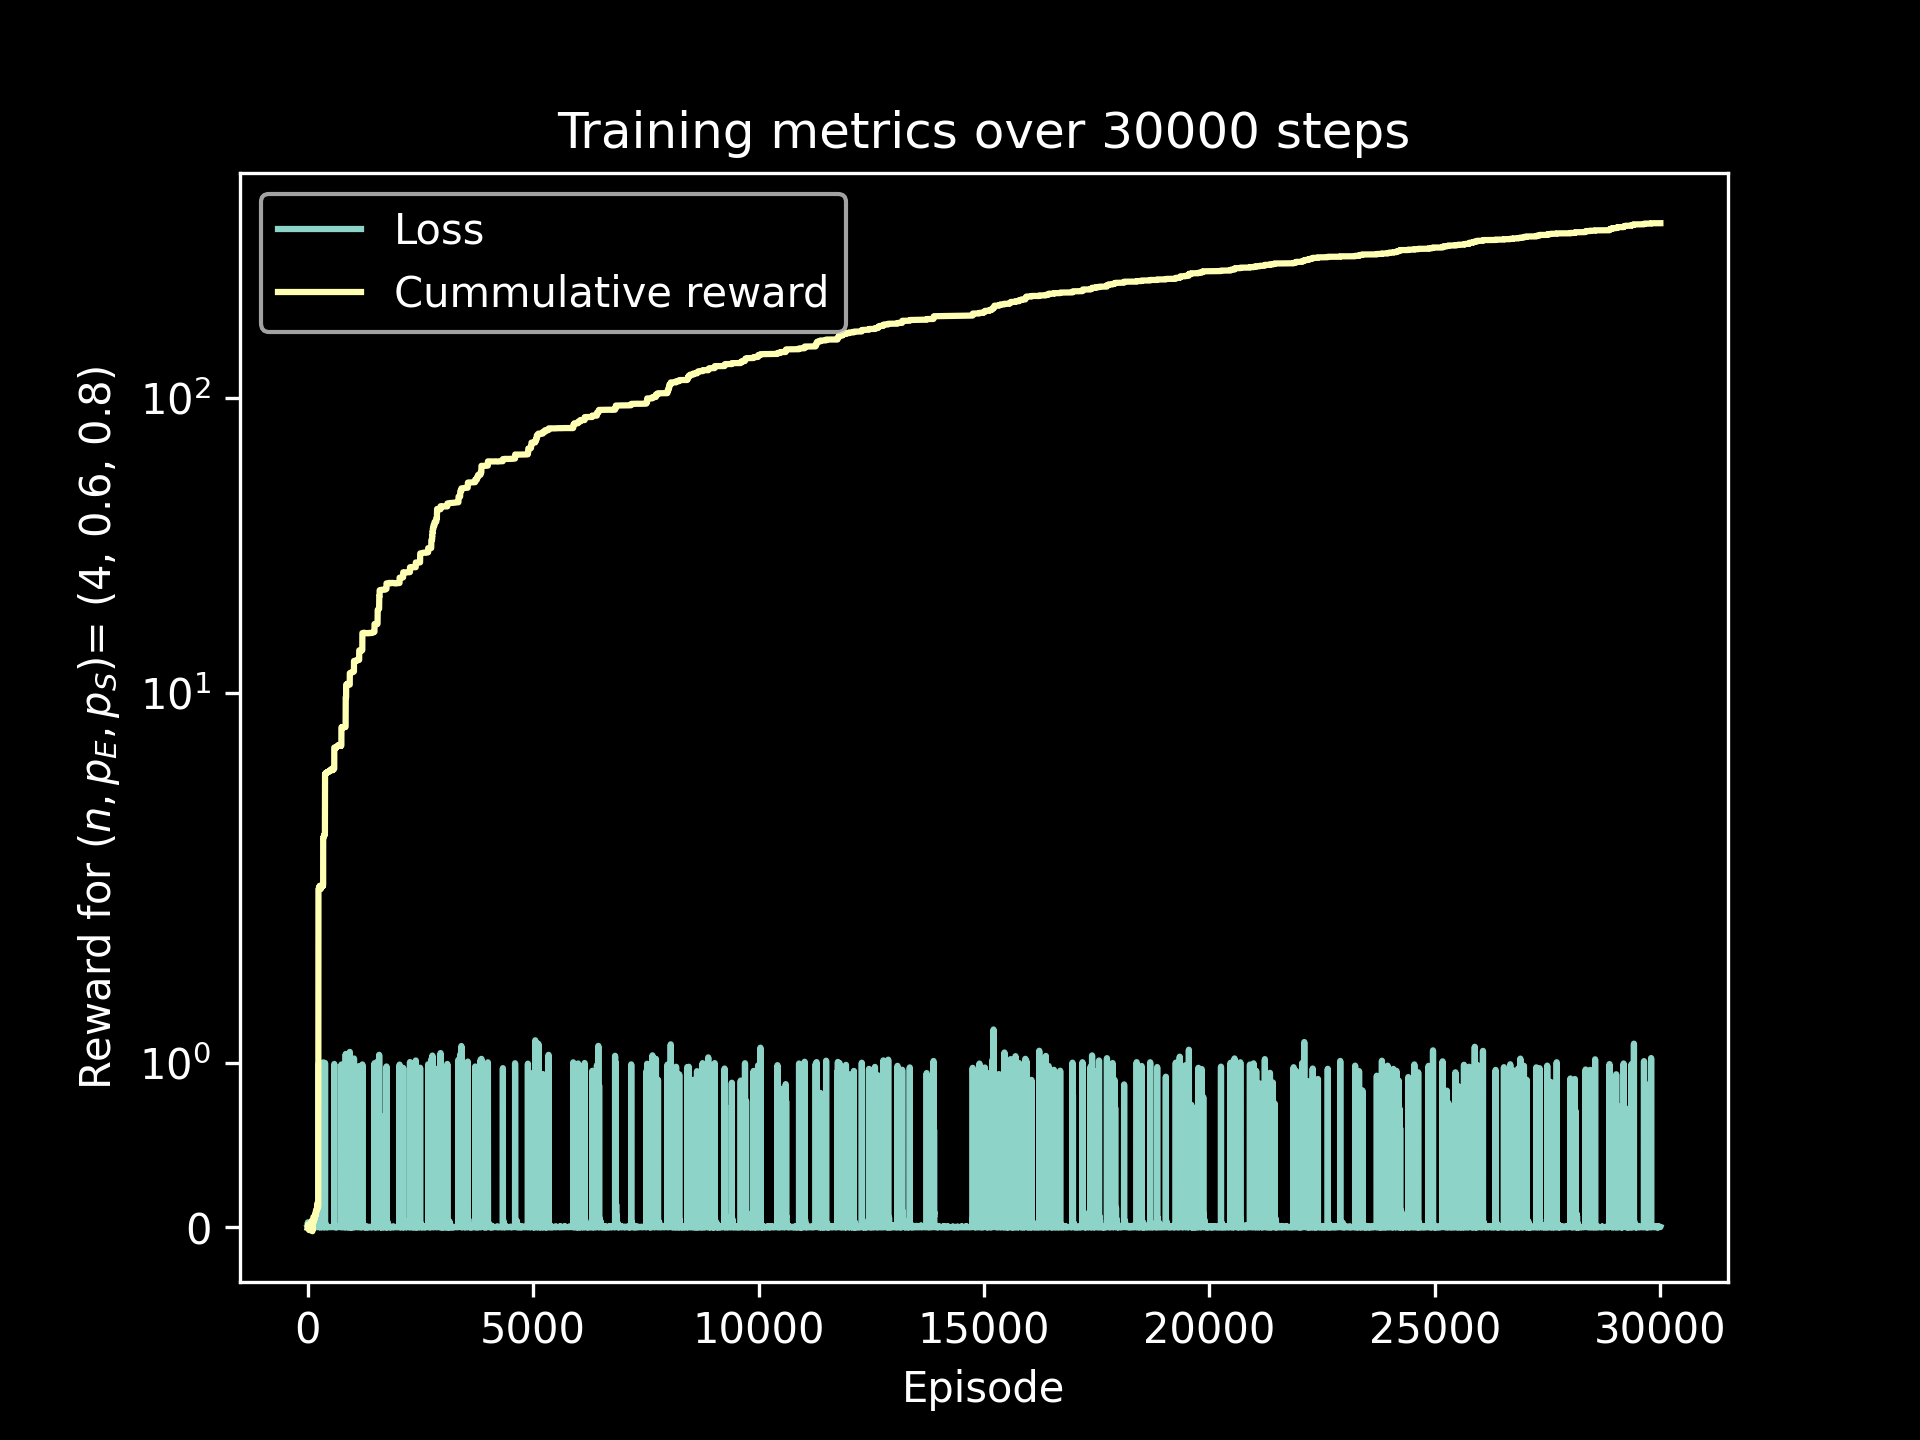
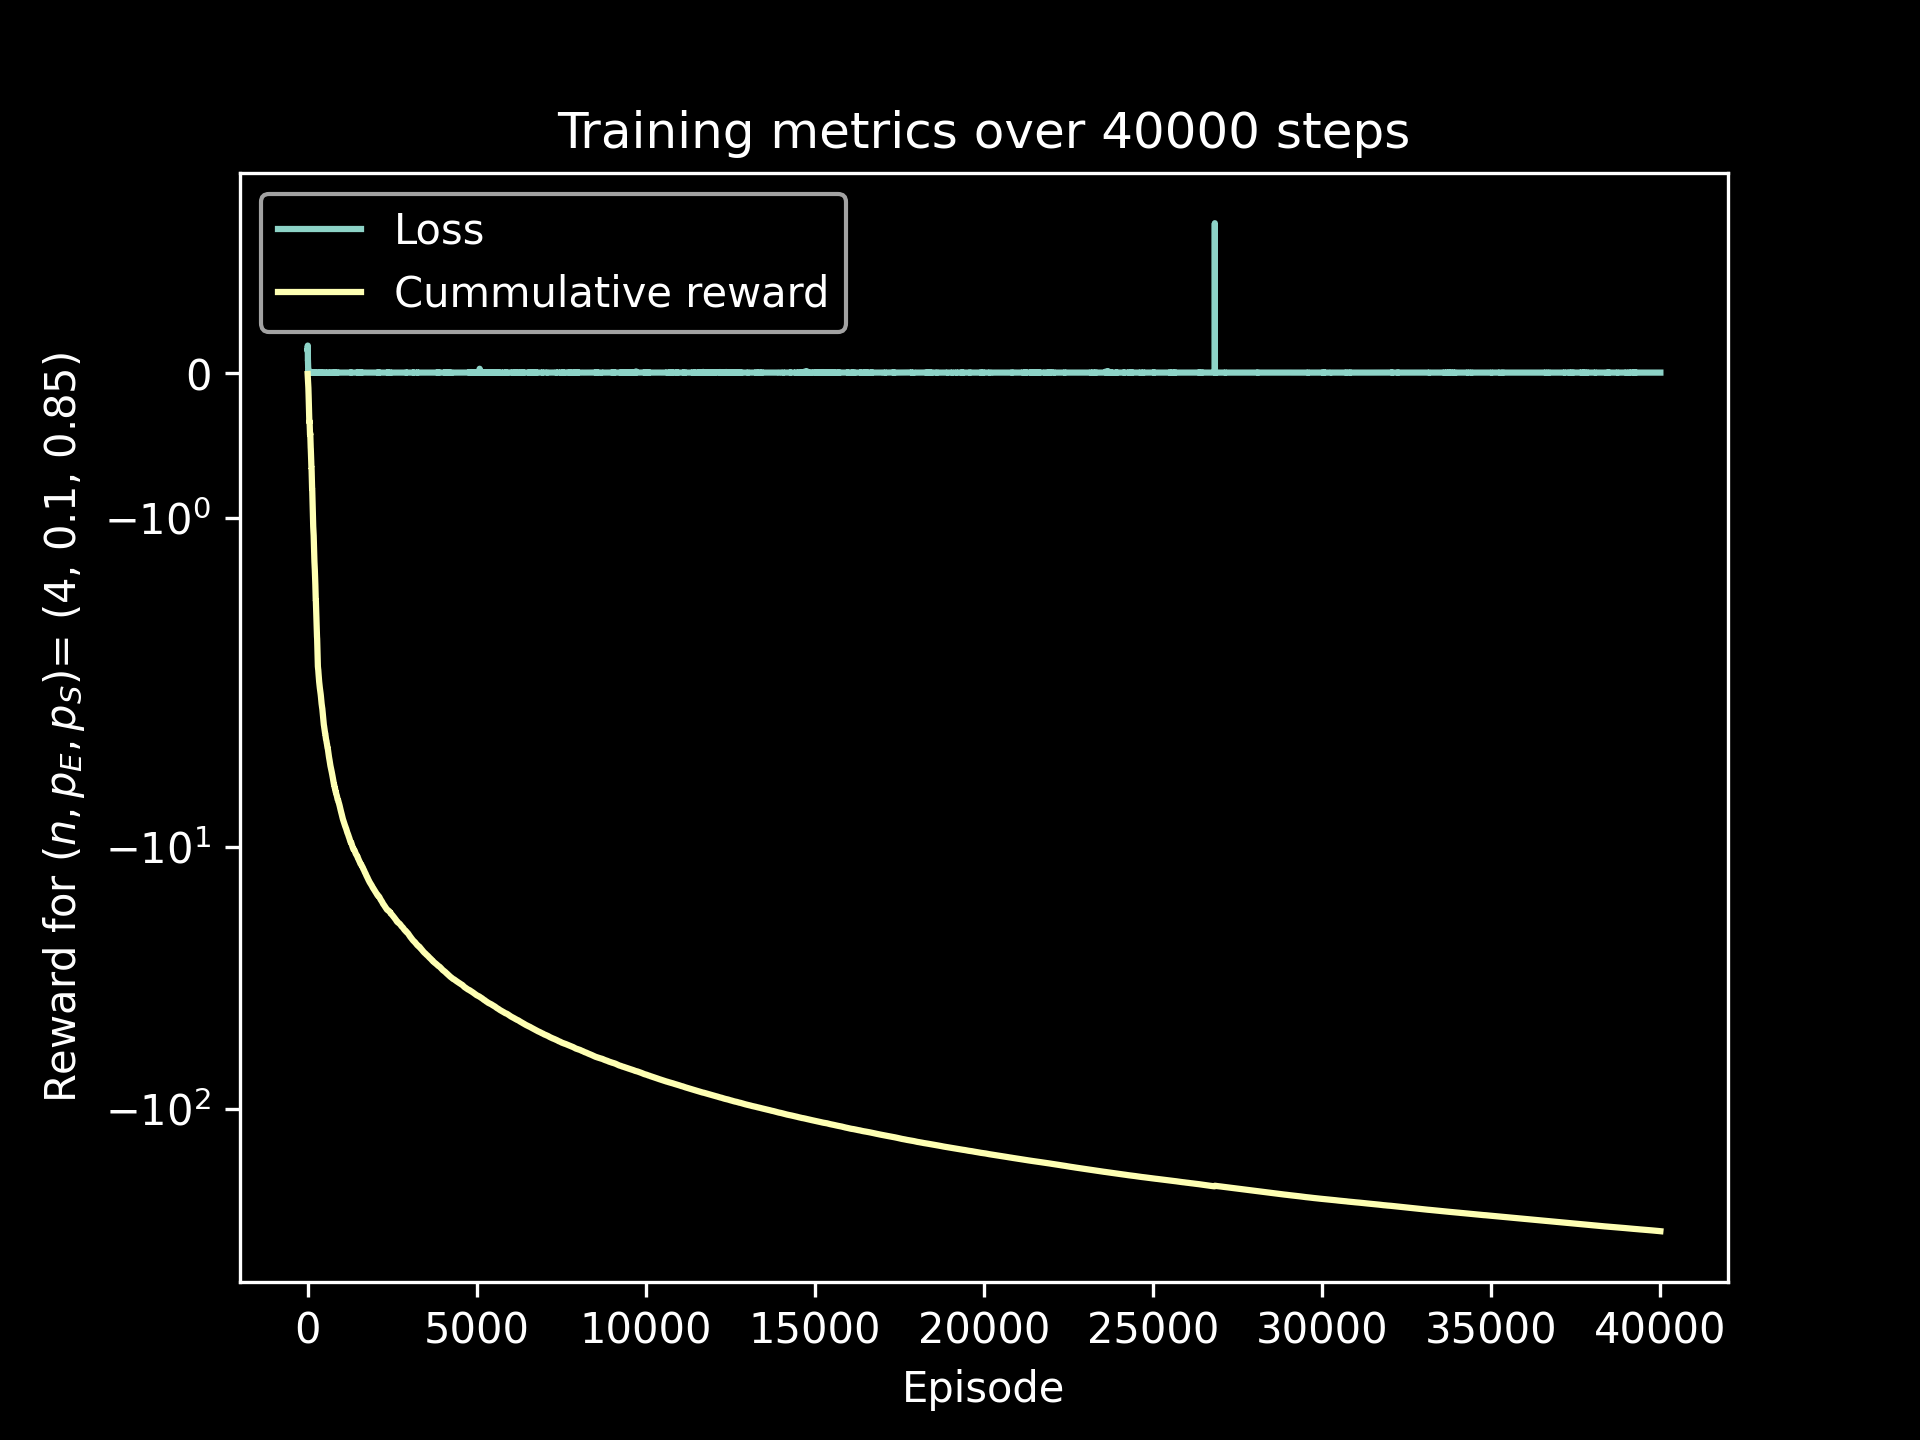
seperated heuristics

diff --git a/src/stats.py b/src/stats.py
@@ -1,6 +1,7 @@
 import matplotlib.pyplot as plt
 import statistics
 import numpy as np
+import seaborn as sns
 import matplotlib as mpl
 from tqdm import tqdm
 from matplotlib.pyplot import figure
@@ -104,6 +105,32 @@ def test_stats(agent,
   plt.ylabel(f'Link rate for $(n, p_E, p_S, τ)$= {n_test, p_entangle, p_swap, tau}')
   plt.legend()
   plt.savefig('assets/test_stats.png') if savefig else None
+  plt.show()
+
+   #--- Plot performance stats ---
+  means = [np.mean(lt), np.mean(ls), np.mean(lr)]
+  mean_errors = [np.mean(t_err), np.mean(s_err), np.mean(r_err)]
+
+  labels = ["Agent", "Swap ASAP", "Random"]
+  plt.figure(figsize=(8, 6))
+  plt.bar(
+      x=labels,
+      height=means,
+      yerr=mean_errors,
+      capsize=10,  # Cap width
+      color=(0, 0, 0, 0), # Transparent fill
+      edgecolor=".5",     # Gray outline
+      linewidth=2.5,      # Thick outline
+      error_kw={
+          "ecolor": ".5",      # Color of error bars
+          "elinewidth": 2.5,   # Width of error bar lines
+          "markeredgewidth": 2.5 # Thickness of the caps
+          })
+
+  plt.ylabel("Mean Performance")
+  plt.title("Performance by Strategy")
+  sns.despine()
+  plt.savefig('assets/test_comp.png') if savefig else None
   plt.show()
 
 

diff --git a/src/main.py b/src/main.py
@@ -13,28 +13,28 @@ np.set_printoptions(legacy='1.25')
 if __name__ == '__main__':
 
 	#Toggle if scaling performance is evaluated
-	GET_SCALING_STATS = 0
+	GET_SCALING_STATS = False
 
 
 	# Re-initialize the agent, now to be used as a zero-shot learner
 	agent = AgentGNN(n=4, 
 					cutoff = 100,
 					tau=100,
-					p_entangle=0.6, 
-					p_swap=0.8)
+					p_entangle=.1, 
+					p_swap=.85)
 
 	#Train ONCE to use for testing (also save the model)
-	agent.train(episodes=30_000, plot=True, save_model=True)
+	agent.train(episodes=40_000, plot=True, save_model=True)
 
 	# Now gather validation statistics
 	test_stats(agent=agent, 
 			experiments=5, 
 			n_test = 6, 
-			p_entangle=0.1, 
-			p_swap=0.7, 
+			p_entangle=.05, 
+			p_swap=.95, 
 			cutoff = 1000,
 			tau=1000, 
-			rounds=1_000) 
+			rounds=10_000) 
 
 	# Observe the relative performance of tha agent as N varies
 	n_scaling_test(experiments=10, 
@@ -43,3 +43,4 @@ if __name__ == '__main__':
 				p_e=0.3, 
 				p_s=0.8, 
 				tau=100) if GET_SCALING_STATS else None
+	
